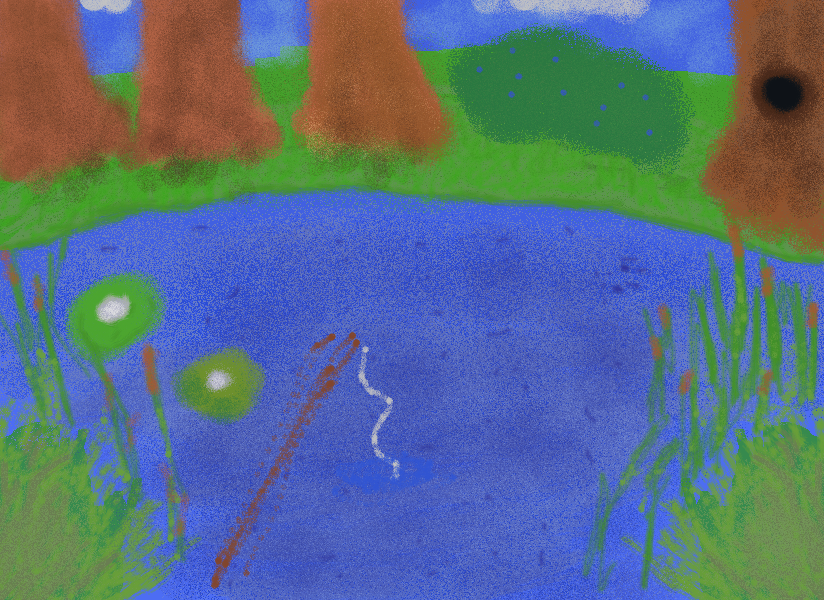
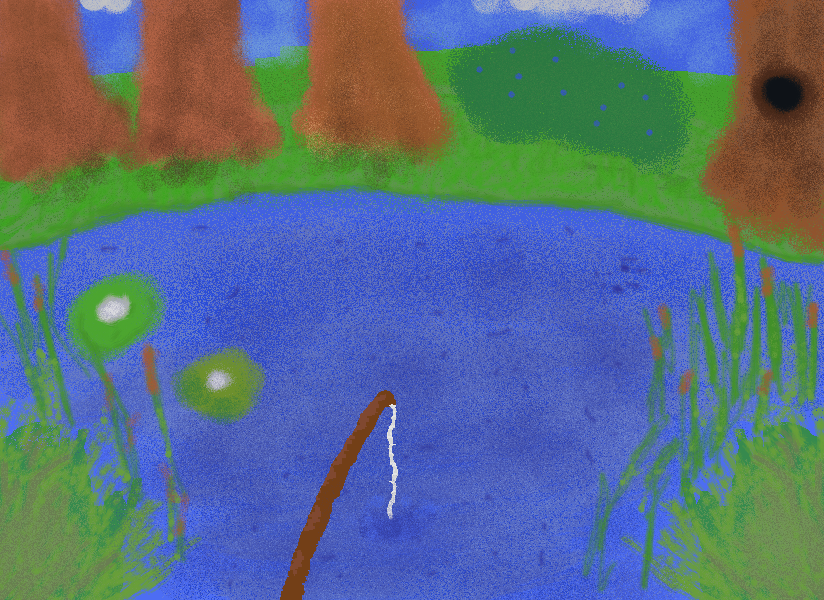
Pridani obrazku na pozadi pri minihre a exit tlacitko na jezero

Changed region(s): [[0.2427, 0.54, 0.5461, 1.0]]

diff --git a/hra.py b/hra.py
@@ -67,7 +67,9 @@ obsah_inventare = {
 
 #Rybareni
 prut = False
+zpet_tlacitko_rect = pygame.draw.rect(okno, bila, (350, 530, 100, 50))
 minihra = False
+zpet_tlacitko = False
 predmety = [
     {
         "jmeno": "plechovka",
@@ -99,6 +101,8 @@ leave_buy_velikost = 40
 leave_sell_velikost = 40
 shop_hlaska = None
 hlaska_velikost = 25
+zpet_tlacitko_velikost = 40
+space_to_fish_velikost = 40
 
 za_koupit = pygame.draw.rect(okno, (cerna), (124, 394, 202, 102))
 za_prodat = pygame.draw.rect(okno, (cerna), (474, 394, 202, 102))
@@ -181,6 +185,10 @@ leave_buy_font = pygame.font.SysFont("Aharoni", leave_buy_velikost)
 leave_buy_text = leave_buy_font.render("EXIT", True, cerna)
 leave_sell_font = pygame.font.SysFont("Aharoni", leave_sell_velikost)
 leave_sell_text = leave_sell_font.render("EXIT", True, cerna)
+zpet_tlacitko_font = pygame.font.SysFont("Aharoni", zpet_tlacitko_velikost)
+zpet_tlacitko_text = zpet_tlacitko_font.render("EXIT", True, cerna)
+space_to_fish_font = pygame.font.SysFont("Aharoni", space_to_fish_velikost)
+space_to_fish_text = space_to_fish_font.render("Press space to cast", True, cerna)
 
 
 
@@ -289,6 +297,8 @@ while True:
     #JEZERO
     if pozadi == jezero:
     
+        kamera_x = 0
+        
         aktualni_sprite = TEXTURApepa_lod
         
         if stisknuto[pygame.K_d]:
@@ -301,12 +311,6 @@ while True:
             hrac_pozice_x = 330
         if hrac_pozice_x > 422:
             hrac_pozice_x = 422
-    
-            
-        if hrac_obrazovka_x > prava_zona:
-            kamera_x += hrac_rychlost
-        if hrac_obrazovka_x < leva_zona:
-            kamera_x -= hrac_rychlost
                 
         if kamera_x < 0:
             kamera_x = 0
@@ -331,18 +335,29 @@ while True:
 
         stojim_u_prava_lod = hrac_pozice_x > 395 and hrac_pozice_x < 423
         
-        if stojim_u_prava_lod and stisknuto[pygame.K_e]:
+        if stojim_u_prava_lod and stisknuto[pygame.K_e] and pozadi != rybareni:
             pozadi = rybareni
+            zpet_tlacitko = True
             hrac_rychlost = 0
             pozadi_sirka = pozadi.get_width()
             pozadi_vyska = pozadi.get_height()
-        
+    
+    if zpet_tlacitko and pozadi == rybareni and zpet_tlacitko_rect.collidepoint(mys_pozice) and klik[0]:
+        pozadi = jezero
+        zpet_tlacitko = False
+        hrac_rychlost = 4
+        hrac_pozice_x = 422
+        kamera_x = 0
+        aktualni_sprite = TEXTURApepa_lod
+
+   
     if pozadi == rybareni and stisknuto[pygame.K_SPACE] and not (prut or minihra):
         pozadi = rybareni_dole
         hrac_rychlost = 0
         pozadi_sirka = pozadi.get_width()
         pozadi_vyska = pozadi.get_height()
         prut = True
+        zpet_tlacitko = False
         ulovek = vyber_predmet(predmety)
         cas_nahozeni = pygame.time.get_ticks()
     
@@ -370,6 +385,7 @@ while True:
         if poradi == ulovek["zmacknuti"]:
             obsah_inventare[ulovek["jmeno"]] += 1
             minihra = False
+            zpet_tlacitko = True
             pozadi = rybareni
             hrac_rychlost = 0
             pozadi_sirka = pozadi.get_width()
@@ -427,6 +443,8 @@ while True:
         pygame.mouse.set_cursor(pygame.SYSTEM_CURSOR_HAND)
     elif tlacitko.collidepoint(mys_pozice) and inventar:
         pygame.mouse.set_cursor(pygame.SYSTEM_CURSOR_HAND)
+    elif zpet_tlacitko_rect.collidepoint(mys_pozice) and not prut and not minihra:
+        pygame.mouse.set_cursor(pygame.SYSTEM_CURSOR_HAND)     
     else:         
         pygame.mouse.set_cursor(pygame.SYSTEM_CURSOR_ARROW)
         
@@ -448,12 +466,16 @@ while True:
         pygame.draw.rect(okno, cerna, (info_shop_obrazovka_x -1, 359, 52, 52))
         pygame.draw.rect(okno, (bila), (info_shop_obrazovka_x, 360, 50, 50))
         okno.blit(E_text, (info_shop_obrazovka_x + (50/2 - E_text.get_size()[0] / 2), 372))
+    
+    stojim_u_leva_lod = hrac_pozice_x > 329 and hrac_pozice_x < 350
 
     if pozadi == jezero and stojim_u_leva_lod:
         pygame.draw.rect(okno, cerna, (21, 339, 52, 52)) 
         pygame.draw.rect(okno, (bila), (22, 340, 50, 50))
         okno.blit(E_text, (info_jezero_obrazovka_x + (50/2 - E_text.get_size()[0] / 2) - 700, 352))
     
+    stojim_u_prava_lod = hrac_pozice_x > 395 and hrac_pozice_x < 423
+
     if pozadi == jezero and stojim_u_prava_lod:
         okno.blit(ikona_prut, (722, 290))
         pygame.draw.rect(okno, cerna, za_space_u_jezera)
@@ -537,6 +559,11 @@ while True:
         hrac_rychlost = 0
     if inventar and pozadi == rybareni:
         hrac_rychlost = 0
+    
+    if zpet_tlacitko:
+        pygame.draw.rect(okno, cerna, (349, 529, 102, 52))
+        zpet_tlacitko_rect = pygame.draw.rect(okno, bila, (350, 530, 100, 50))
+        okno.blit(zpet_tlacitko_text, (367, 543))
         
 
     #print(shop_mode)
